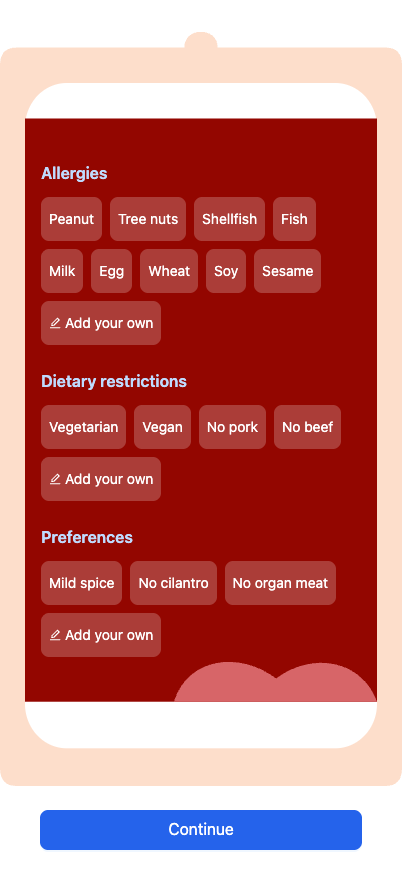
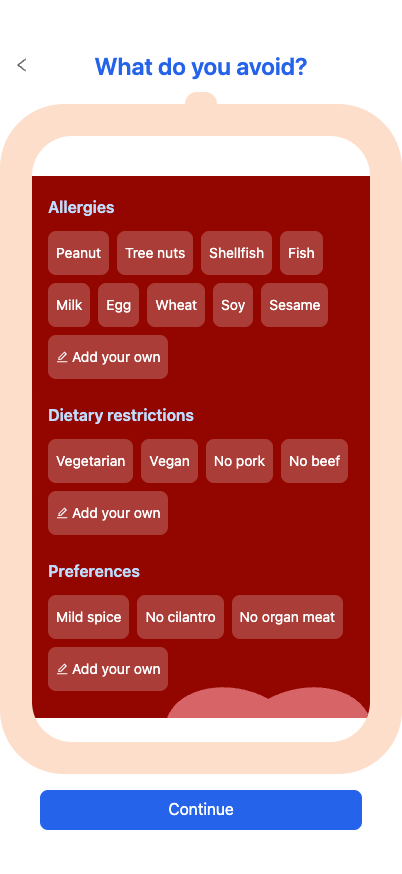
Refine mouth layout spacing and add safe areas and back navigation

diff --git a/src/pages/DietPreferences.tsx b/src/pages/DietPreferences.tsx
@@ -1,7 +1,7 @@
 import { useEffect, useRef, useState } from 'react';
 import { flushSync } from 'react-dom';
-import { Button, Input, type InputRef } from 'antd';
-import { EditOutlined, CheckOutlined } from '@ant-design/icons';
+import { Button, Input, message, type InputRef } from 'antd';
+import { EditOutlined, CheckOutlined, LeftOutlined } from '@ant-design/icons';
 import './diet-preferences.css';
 import { SimulatedKeyboard } from './SimulatedKeyboard';
 import { MouthFrame } from '../components/MouthFrame';
@@ -15,6 +15,7 @@ type GroupKey = typeof groups[number]['key'];
 type Choices = Record<GroupKey,string[]>;
 const emptyChoices=():Choices=>({allergies:[],diet:[],preferences:[]});
 export default function DietPreferences(){
+ const [notice,noticeContext]=message.useMessage();
  const [selected,setSelected]=useState<Choices>(emptyChoices);
  const [custom,setCustom]=useState<Choices>(emptyChoices);
  const [editing,setEditing]=useState<GroupKey|null>(null);
@@ -79,11 +80,15 @@ export default function DietPreferences(){
  }
 
  return <div className="diet-page" lang="en" aria-label="iPhone 17 Pro app prototype">
+  {noticeContext}
   <div className="diet-viewport diet-mouth-viewport" ref={viewportRef} inert={view==='confirm'?true:undefined}>
+   <header className="diet-header">
+    <Button type="text" className="diet-back" aria-label="Go back" icon={<LeftOutlined/>} onClick={()=>{if(editing){cancel();return;}if(window.history.length>1)window.history.back();else void notice.info("You're at the first step of this demo.");}}/>
+    <h1 id="diet-title">What do you avoid?</h1>
+   </header>
    <main className="diet-mouth-scene" aria-labelledby="diet-title">
    <MouthFrame/>
    <div className="diet-mouth-content">
-  <h1 id="diet-title" className="diet-sr-only">Your food preferences</h1>
   {groups.map(g=><section className="diet-group" key={g.key} aria-labelledby={`heading-${g.key}`}><h2 id={`heading-${g.key}`}>{g.title}</h2><div className="diet-chips">{[...g.options,...custom[g.key]].map(label=><span className={`diet-chip-wrap ${selected[g.key].includes(label)?'is-selected':''}`} key={label}><button type="button" className="diet-chip" aria-label={label} aria-pressed={selected[g.key].includes(label)} onClick={()=>toggle(g.key,label)}>{label}</button></span>)}<div className="diet-add-slot">{editing===g.key?<form ref={formRef} className="diet-inline-form" onSubmit={e=>{e.preventDefault();add();}} onBlur={e=>{if(e.relatedTarget&&(e.currentTarget.contains(e.relatedTarget as Node)||(e.relatedTarget as HTMLElement).closest('.sim-keyboard')))return;if(value.trim())add();else cancel();}}>
  <EditOutlined aria-hidden="true"/><Input ref={inputRef} variant="borderless" aria-label="Your preference" aria-invalid={!!error} aria-describedby={error?`error-${g.key}`:undefined} placeholder="Add your own" value={value} maxLength={40} enterKeyHint="done" autoComplete="off" onChange={e=>{setValue(e.target.value);setError('');}} onKeyDown={e=>{if(e.key==='Escape'){e.preventDefault();cancel();}if(e.key==='Enter'&&e.nativeEvent.isComposing)e.preventDefault();}}/>
  <button type="submit" className="diet-inline-done" aria-label="Add preference" onPointerDown={e=>e.preventDefault()}><CheckOutlined/></button>

diff --git a/src/pages/diet-preferences.css b/src/pages/diet-preferences.css
@@ -63,9 +63,17 @@
 .diet-inline-form .ant-input::placeholder{color:var(--ds-colorPrimaryText);opacity:1}
 
 /* Mouth geometry is an illustration; UI dimensions retain the existing tokens. */
-.diet-mouth-viewport{padding:var(--ds-paddingXL) 0 var(--ds-paddingLG);gap:var(--ds-marginLG)}
-.diet-mouth-scene{position:relative;isolation:isolate;flex:1 0 auto;max-width:none;margin:0;padding:calc(var(--ds-paddingXL)*3) calc(100% * 24 / 386 + var(--ds-padding)) calc(var(--ds-paddingXL)*3);display:flex;align-items:center;min-width:0}
-.mouth-frame-art{position:absolute;inset:0;width:100%;height:100%;z-index:-1;pointer-events:none}
+.diet-page{padding-top:max(44px,env(safe-area-inset-top));padding-bottom:max(44px,env(safe-area-inset-bottom))}
+.diet-mouth-viewport{padding:0;gap:var(--ds-margin)}
+.diet-header{position:relative;display:flex;align-items:center;justify-content:center;flex-shrink:0;min-height:44px;padding:0 calc(var(--ds-paddingXL) + var(--ds-padding))}
+.diet-header h1{margin:0;font-size:var(--ds-fontSizeHeading3);line-height:var(--ds-lineHeightHeading3);font-weight:var(--ds-fontWeightStrong);color:var(--ds-colorPrimary);white-space:nowrap}
+.diet-back.ant-btn{position:absolute;left:0;top:0;width:44px;height:44px;color:var(--ds-colorTextSecondary);font-size:var(--ds-fontSizeLG)}
+.diet-mouth-scene{position:relative;isolation:isolate;flex:1 0 auto;max-width:none;margin:0;padding:calc(var(--ds-paddingXL) + var(--ds-controlHeightLG) + var(--ds-padding)) calc(var(--ds-paddingXL) + var(--ds-padding)) calc(var(--ds-paddingXL) + var(--ds-paddingLG) + var(--ds-paddingLG));display:flex;align-items:center;min-width:0}
+.mouth-frame-art{position:absolute;inset:0;z-index:-1;pointer-events:none;background:#FDDECB;border-radius:64px}
+.mouth-frame-art::before{content:"";position:absolute;width:32px;height:24px;top:-12px;left:calc(50% - 16px);border-radius:16px;background:#FDDECB}
+.mouth-frame-cavity{position:absolute;inset:var(--ds-paddingXL);border-radius:40px;background:#FFFFFF;overflow:hidden}
+.mouth-frame-interior{position:absolute;inset:var(--ds-controlHeightLG) 0 var(--ds-paddingLG);background:#930600}
+.mouth-frame-tongue{position:absolute;bottom:0;right:0;width:60%;height:var(--ds-paddingXL)}
 .diet-mouth-content{flex:1;width:100%;min-width:0}
 .diet-mouth-content .diet-group h2{color:var(--brand-blueLight)}
 .diet-mouth-content .diet-chip{padding-left:var(--ds-paddingXS);padding-right:var(--ds-paddingXS)}

diff --git a/src/components/MouthFrame.tsx b/src/components/MouthFrame.tsx
@@ -1,9 +1,8 @@
 // Decorative vector mouth; interactive controls remain normal accessible HTML.
 export function MouthFrame(){
- return <svg className="mouth-frame-art" viewBox="0 0 386 680" preserveAspectRatio="none" aria-hidden="true" focusable="false">
-  <path fill="#FDDECB" d="M177 14C177 -5 209 -5 209 14H370Q386 14 386 30V664Q386 680 370 680H16Q0 680 0 664V30Q0 14 16 14Z"/>
-  <rect x="24" y="46" width="338" height="600" rx="40" fill="#FFFFFF"/>
-  <path fill="#930600" d="M24 78H362V604H24Z"/>
-  <path fill="#D76568" d="M167 604C180 564 230 558 265 583C301 558 348 567 362 604Z"/>
- </svg>;
+ return <div className="mouth-frame-art" aria-hidden="true">
+  <div className="mouth-frame-cavity"><div className="mouth-frame-interior">
+   <svg className="mouth-frame-tongue" viewBox="0 0 200 40" preserveAspectRatio="none" focusable="false"><path fill="#D76568" d="M0 40C12 0 62 -10 100 16C138 -10 188 0 200 40Z"/></svg>
+  </div></div>
+ </div>;
 }

diff --git a/docs/delivery/mouth-home.md b/docs/delivery/mouth-home.md
@@ -7,3 +7,7 @@
 保留条件共存、自定义取消即删除、原位展开输入、模拟键盘、已有模糊背景确认面板。修正确认遮罩与返回按钮同名导致的定位歧义。确认页仍是当前会话预览，后续业务页未新增。
 
 预览 /demo，402×874。截图 diet-mouth-home.png。
+
+最新布局：面部横向贴屏，口腔（含白色牙齿）距面部四边均为 32px，内容距离口腔左右各 16px 并填充可用宽度。顶部和底部各预留 44px，若设备系统安全区更大则使用系统值。新增问题标题 “What do you avoid?” 和 44px 点击区域的返回按钮；编辑时返回收起输入，否则返回浏览器上一页，无历史时提示当前为 Demo 第一步。
+
+402×874 浏览器实测口腔四边均为 32px，上下预留均为 44px，默认内容无滚动；已检查返回导航。真实 iPhone Safari 安全区与系统键盘仍待真机验证。
